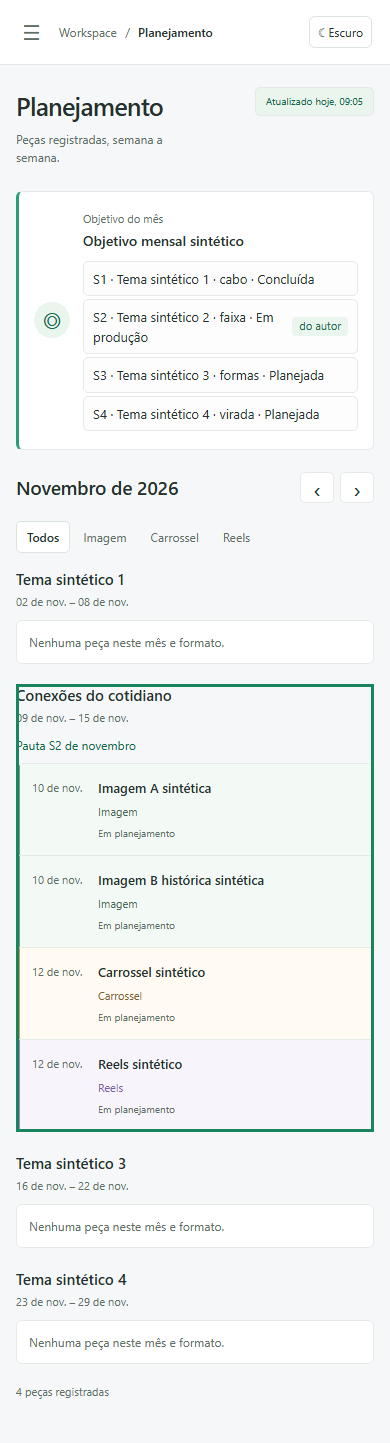
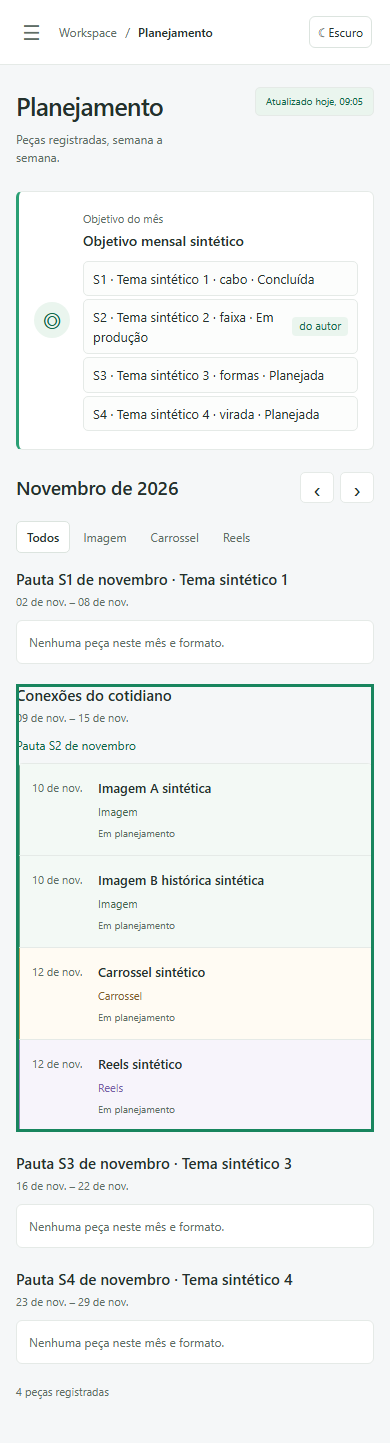
fix: distinguir pautas de semanas e esclarecer avisos de datas

diff --git a/src/web/app.js b/src/web/app.js
@@ -342,20 +342,24 @@ function pecaVisivel(p,week) {
   const cruzaMes=week.periodo.inicio.slice(0,7)<=state.mes && week.periodo.fim.slice(0,7)>=state.mes;
   return cruzaMes && p.dataCivil>=week.periodo.inicio && p.dataCivil<=week.periodo.fim;
 }
-function lista(semData=false) {
-  const groups=[];
-  const pautas=pautasDoMes(),weeks=state.view.semanas.slice();
+function semanasComPautas(semData,pautas) {
+  const weeks=state.view.semanas.slice();
   if(!semData)for(const pauta of pautas) {
-    if(!weeks.some(w=>w.periodo.inicio===pauta.inicio_semana))weeks.push({tema:pauta.tema,ids:[],periodo:{inicio:pauta.inicio_semana,fim:dataMais(pauta.inicio_semana,6)}});
+    if(!weeks.some(w=>w.periodo.inicio===pauta.inicio_semana))weeks.push({tema:pauta.tema,pautaDestino:pauta,ids:[],periodo:{inicio:pauta.inicio_semana,fim:dataMais(pauta.inicio_semana,6)}});
   }
   if(weeks.length>state.view.semanas.length)weeks.sort((a,b)=>(a.periodo.inicio??'z').localeCompare(b.periodo.inicio??'z'));
+  return weeks;
+}
+function lista(semData=false) {
+  const groups=[],pautas=pautasDoMes(),weeks=semanasComPautas(semData,pautas);
   for (const week of weeks) {
     const pecas=idsParaPecas(week.ids).filter(p=>semData?p.dataCivil===null:aceito(p) && pecaVisivel(p,week));
     const temPauta=!semData && pautas.some(p=>p.inicio_semana===week.periodo.inicio);
     if (!pecas.length && !temPauta) continue;
     const group=node('section',undefined,'agenda-week'), header=node('header');
     if(!semData)destinoSemana(group,week.periodo.inicio);
-    header.append(node('h3',week.tema || 'Tema não informado'),node('small',week.periodo.inicio?civil(week.periodo.inicio,{day:'2-digit',month:'short'})+' – '+civil(week.periodo.fim,{day:'2-digit',month:'short'}):'Período não identificado'));
+    const tema=week.tema || 'Tema não informado';
+    header.append(node('h3',week.pautaDestino?rotuloPauta(week.pautaDestino)+' · '+tema:tema),node('small',week.periodo.inicio?civil(week.periodo.inicio,{day:'2-digit',month:'short'})+' – '+civil(week.periodo.fim,{day:'2-digit',month:'short'}):'Período não identificado'));
     const rows=node('div',undefined,'agenda-rows');rows.append(...pecas.map(row));
     group.append(header);
     const origem=origemPauta(week);if(origem)group.append(origem);

diff --git a/specs/004-pautas-planejamento/validacao.md b/specs/004-pautas-planejamento/validacao.md
@@ -13,7 +13,7 @@ Solicitação de 07/10/2026: consulta de Pautas opcional e Semanas.pauta_id opci
 - Context7 conferido para Sheets e Playwright; nenhuma dependência instalada. Ausência de mapa Graphify neste checkout conferida.
 
 ## Estado
-Spec/plano/tarefas definidos. Implementação, testes e screenshots concluídos localmente; correções conferidas pela revisão independente. [PR #20](https://github.com/Browsher/crm-social/pull/20) aberto, gate estrito aprovado no primeiro head e três Minor atendidos. T012–T014 reconferidas com gate de 434 testes e doc-sync final; T015 aguarda checks/review do head atualizado. Este registro não comprova uso editorial real. Toda evidência desta entrega usa fixtures sintéticas, cliente remoto falso e TEMP; nenhuma coleta na fonte operacional.
+Spec/plano/tarefas definidos. Implementação, testes e screenshots concluídos localmente; correções conferidas pela revisão independente. [PR #20](https://github.com/Browsher/crm-social/pull/20) aberto, dois heads anteriores com gate estrito aprovado e reviews sem Critical/Important. T012–T014 reconferidas com gate de 441 testes e doc-sync final; T015 aguarda checks/review do head atualizado. Este registro não comprova uso editorial real. Toda evidência desta entrega usa fixtures sintéticas, cliente remoto falso e TEMP; nenhuma coleta na fonte operacional.
 
 ## TDD e regressões parciais
 Backend: RED inicial 6 PASS/32 FAIL pela ausência do suporte a Pautas; implementação e casos adicionais terminaram com 190 PASS/0 FAIL/0 SKIP nos arquivos pautas, coleta, projecao, snapshot e servidor (41 testes P004). A invocação também continha o padrão inexistente captura.test.cjs, ignorado pelo runner; não foi contado como teste executado. O coordenador executou separadamente `node --test tests/dados.test.cjs`: 25 PASS/0 FAIL/0 SKIP, incluindo hashes legados literais. Gate integrado ainda pendente nesta fase.
@@ -23,7 +23,7 @@ UI: RED inicial 1 PASS/8 FAIL; regressão de interface/tema/atualização 148 PA
 
 Gerador: RED por ausência de PNG; GREEN 4 PASS sem pulos (guardas de exclusão, falha do navegador e CLI real em cópia TEMP). Geração exit 0, 20 PNG, todos inspecionados pelo responsável e seis amostras pelo coordenador. [Galeria](../../docs/design/screenshots/LEIA-ME.md#004--pautas-no-planejamento). As imagens mantêm a galeria anterior e não mostram dados reais.
 
-Primeiro `node tools/quality-gate.mjs`, Node 24.19.0, Windows com Playwright existente: **427 testes PASS**, cobertura **93,8748%**, complexidade PASS/19 avisos, exit **0**, baseline preservada. Execução TAP completa confirmou 427 PASS/0 FAIL/0 SKIP. [Resumo sanitizado](../../docs/reports/004-local-gate.json). O modo é full: drop 0 é o valor desse modo, não comparação com os 96,3498% históricos. O percentual medido agora inclui o novo módulo/fixture/gerador; a UI continua fora do LCOV. Semgrep SKIP por ferramenta ausente; audit N/A sem dependências do app. Gate estrito remoto e review ainda pendentes, separados da prova Windows.
+Primeiro `node tools/quality-gate.mjs`, Node 24.19.0, Windows com Playwright existente: **427 testes PASS**, cobertura **93,8748%**, complexidade PASS/19 avisos, exit **0**, baseline preservada. Execução TAP completa confirmou 427 PASS/0 FAIL/0 SKIP. Esta é uma rodada histórica, registrada somente neste texto; o relatório JSON versionado corresponde à última rodada descrita adiante. O modo é full: drop 0 é o valor desse modo, não comparação com os 96,3498% históricos. O percentual inclui o novo módulo/fixture/gerador; a UI continua fora do LCOV. Semgrep SKIP por ferramenta ausente; audit N/A sem dependências do app. Gate estrito remoto e review ainda estavam pendentes nesta rodada.
 
 Varredura final de 36 arquivos textuais alterados/criados após a correção e o doc-sync: sem correspondência para e-mail de conta de serviço, URL privada de planilha, chave privada completa ou cópia/caminho do contrato operacional. Limite: padrões conservadores não comprovam ausência de todo segredo possível. Nenhum arquivo de output/ preexistente foi incluído.
 
@@ -32,7 +32,7 @@ Revisor separado, seguindo `.claude/agents/reviewer.md`, examinou os documentos,
 
 Teste RED: 1 FAIL; GREEN U004: 12 PASS/0 FAIL/0 SKIP. Limites inclusivos, dias fora do período e ponteiro órfão cobertos. Revisor conferiu patch/teste e encerrou sem Critical, Important pendente ou problema concreto de segurança no material recebido, condicionado ao gate após a correção. Limites: não examinou diretamente todo o diff ou os PNGs; review remoto do futuro head continua necessário. Nenhuma autorização de merge.
 
-Gate final após a correção: **428 testes PASS**, cobertura **93,8748%**, complexidade PASS/**20 avisos**, exit **0**, baseline preservada. Execução TAP completa da mesma árvore confirmou **428 PASS/0 FAIL/0 SKIP**, sem cancelados ou TODO. `origensDoDia` ficou com complexidade 13, abaixo do limiar de reprovação 21. Limitações de Semgrep/audit/LCOV/modo full permanecem as registradas acima. [Relatório final sanitizado](../../docs/reports/004-local-gate.json). Galeria regenerada nessa árvore: 20 PNG, exit 0, seis amostras visuais cobrindo ambos os temas e larguras sem alterações inesperadas.
+Rodada após a correção local: **428 testes PASS**, cobertura **93,8748%**, complexidade PASS/**20 avisos**, exit **0**, baseline preservada. Execução TAP completa da mesma árvore confirmou **428 PASS/0 FAIL/0 SKIP**, sem cancelados ou TODO. `origensDoDia` ficou com complexidade 13, abaixo do limiar de reprovação 21. Limitações de Semgrep/audit/LCOV/modo full permanecem as registradas acima. Rodada histórica preservada neste texto. Galeria regenerada nessa árvore: 20 PNG, exit 0, seis amostras visuais cobrindo ambos os temas e larguras sem alterações inesperadas.
 
 ## Documentação
 Doc-sync-onboarding concluído após estabilizar o código/gate, em 14 Markdown de onboarding/produto/arquitetura/módulos/galeria. Links locais conferidos, cercas balanceadas, índice documental atualizado e `git diff --check` sem erros. Não houve alteração em templates, skills, gate, CI ou baseline. Sem mapa Graphify existente. Documentos diferenciam implementação/teste local de integração.
@@ -52,7 +52,7 @@ Correções dos três Minor:
 Revisor local separado conferiu esses deltas e as evidências encaminhadas, sem executar comandos, e não encontrou novo Critical, Important ou problema de segurança. Gate Windows após os ajustes: **434 PASS**, cobertura **93,8708%**, complexidade PASS/20 avisos, exit 0, baseline preservada; Semgrep local SKIP e audit N/A. Execução TAP/LCOV confirmou **434 PASS/0 FAIL/0 SKIP**, sem cancelados/TODO. Galeria regenerada: 20 PNG e exit 0, amostras dos dois temas/larguras conferidas.
 
 ### Cobertura por arquivo solicitada no review
-LCOV Windows com os mesmos includes/excludes do gate; agregado idêntico ao relatório: **1.409/1.501 linhas (93,8708%)**. Resumo sanitizado e linhas não cobertas em `coverageDetails` do [relatório](../../docs/reports/004-local-gate.json); LCOV bruto com caminhos locais não é publicado.
+LCOV Windows final com os mesmos includes/excludes do gate; agregado idêntico ao relatório: **1.410/1.502 linhas (93,8748%)**. Resumo sanitizado e linhas não cobertas em `coverageDetails` do [relatório](../../docs/reports/004-local-gate.json); LCOV bruto com caminhos locais não é publicado. `sourceParent` identifica a base dos últimos ajustes e `sourceBlobs` identifica por hash Git cada um dos 12 arquivos de código/testes/estilo da entrega, conferidos novamente após executar o gate e o LCOV. Os números intermediários permanecem somente nos relatos históricos acima.
 
 | Arquivo | Linhas cobertas/medidas | Percentual |
 | --- | --- | --- |
@@ -60,8 +60,21 @@ LCOV Windows com os mesmos includes/excludes do gate; agregado idêntico ao rela
 | src/coleta.cjs | 85/85 | 100% |
 | src/triagem.cjs | 101/101 | 100% |
 | src/projecao.cjs | 308/308 | 100% |
-| src/pautas.cjs | 50/50 | 100% |
+| src/pautas.cjs | 51/51 | 100% |
 | tests/pautas-fixtures.cjs | 23/23 | 100% |
 | scripts/screenshots-pautas.cjs | 52/96 | 54,1667% |
 
 As 44 linhas não cobertas do novo gerador respondem por 44 das 92 linhas não cobertas do agregado. O CLI real foi executado e verificado em subprocesso, cuja cobertura não é incorporada à do processo pai; os testes VM medem preparação/falhas/limpeza. Os cinco módulos de backend alterados têm 100% das linhas medidas cobertas, o que não equivale a 100% dos ramos. UI permanece exercitada no navegador, fora do LCOV. Não foi refeita a medição por arquivo da main histórica, portanto o percentual agregado anterior não serve como comparação direta de ramos.
+
+### Review do commit f0c2b6b
+[Gate estrito](https://github.com/Browsher/crm-social/actions/runs/37676734525/job/112982060691) de `f0c2b6bad9880a16820b8699a51e6fdae56f7785`: tests/coverage/complexity/Semgrep PASS, 20 avisos, audit N/A, exit 0, baseline preservada. [Review desse head](https://github.com/Browsher/crm-social/pull/20#issuecomment-6045578137): sem Critical/Important, seis Minor.
+
+Tratamento:
+- Minor 1: destino visual sem Semana capturada passa a se identificar como `Pauta S1 de novembro · tema`, sem criar `pautaOrigem` ou linha na Planilha. RED 1 FAIL; GREEN Pautas/interface 116 PASS/0 FAIL/0 SKIP, incluindo 14 U004.
+- Minor 2: início inválido repetido não avisa duplicidade. Datas civis canônicas repetidas continuam contadas mesmo quando outro campo da pauta é inválido. Reutiliza `instanteUtc` de captura. RED 5 FAIL/1 PASS; GREEN Pautas/projeção/dados 153 PASS/0 FAIL/0 SKIP, incluindo 52 P004.
+- Minor 3: contrato/quickstart explicam `mes` textual `AAAA-MM` e IDs textuais opacos, sem alterar formatação na fonte.
+- Minor 4: preparação/ordenação da lista extraída para `semanasComPautas`, preservando ordem física quando não há destinos novos e sempre em Sem data.
+- Minor 5: limitação do modo full e cobertura do subprocesso ficam explícitas. Mantido o escopo do gate; não excluir o gerador nem alterar baseline para aumentar o percentual. Pendência M8 permanece documentada, com prova Windows separada.
+- Minor 6: mantidas as duas guardas locais da coluna opcional, sem divergência demonstrada. As combinações de presença/ausência são verificadas nos testes de projeção/Planilha. Extração de helper adicional fica como melhoria não bloqueante, fora desta entrega enxuta.
+
+As sugestões 5/6 não apontam falha de segurança, perda de dados ou regressão demonstrada. Revisor local separado conferiu os deltas 1–4 e a reutilização de `instanteUtc`, sem novo Critical/Important ou problema de segurança no material encaminhado. Gate Windows da árvore ajustada: **441 testes PASS**, cobertura **93,8748%**, complexidade PASS/20 avisos, exit 0, baseline preservada; execução TAP/LCOV confirmou **441 PASS/0 FAIL/0 SKIP**, sem cancelados/TODO. `lista` passou de 18 para 15 e `semanasComPautas` tem 5. Semgrep local SKIP/audit N/A permanecem. Galeria regenerada: 20 PNG, exit 0 e oito amostras de card/lista/semana em 1440/390 e claro/escuro conferidas, incluindo os novos títulos em tela pequena. Checks remotos ainda devem conferir o head enviado; evidência anterior não os substitui.

diff --git a/docs/modules/web.md b/docs/modules/web.md
@@ -65,7 +65,7 @@ O booleano `definido` aceita somente objetivo textual não vazio após trim e or
 
 As regressões em 1440/390 verificam a cor ao navegar por objetivos/ausências/duplicatas, **+1 pauta**/**+2 pautas** e ausência de `.more-topics` com até cinco itens, mesmo quando objetivo/pauta contêm `+2` literal. O teste de integração confirma card e avisos de mês: outubro único, novembro duplicado nas linhas físicas 4/6, dezembro com espaços inválido na linha 8; outra marca fica fora. Essa conferência preserva o contrato recebido da API. [Gate local dos ajustes](../reports/003-ajustes-local-gate.json) e [validação](../../specs/003-planejamento-mensal/validacao.md) distinguem o código atual das rodadas anteriores de CI.
 
-`irParaPauta` renderiza o mês da pauta e dá foco/rolagem ao destino `data-inicio-semana` correspondente no calendário ou na lista selecionada. `destinoSemana` usa `tabIndex=-1`, `role=group` e rótulo de semana; no calendário aplica-se apenas às segundas-feiras. Na lista, uma pauta sem semana capturada cria apenas um destino visual com tema/período e nenhuma peça; não cria registro operacional ou origem inferida. Ação funciona com mouse, Enter e Espaço e não depende de peças ou formato selecionado.
+`irParaPauta` renderiza o mês da pauta e dá foco/rolagem ao destino `data-inicio-semana` correspondente no calendário ou na lista selecionada. `destinoSemana` usa `tabIndex=-1`, `role=group` e rótulo de semana; no calendário aplica-se apenas às segundas-feiras. Na lista, uma pauta sem semana capturada cria apenas um destino visual com cabeçalho **Pauta S1 de novembro · tema**, período e nenhuma peça. `pautaDestino` existe somente nesse objeto local e fornece o rótulo; não cria registro operacional nem preenche `pautaOrigem`. Origem continua exigindo o vínculo confirmado pela API. Ação funciona com mouse, Enter e Espaço e não depende de peças ou formato selecionado.
 
 `origemPauta` mostra **Pauta S2 de novembro** somente para `pautaOrigem` confirmada pela API. Calendário/lista usam a origem da semana; a gaveta reúne uma vez cada origem das semanas representadas pelas peças. Em dia vazio, usa as origens já confirmadas das semanas capturadas cujo período abrange a data. Esse recorte por dia não associa pauta por data: o vínculo continua resolvido exclusivamente pelo backend por ID/marca/início.
 
@@ -88,7 +88,7 @@ Valor desconhecido permanece exatamente o original, sem substituir sublinhados, 
 
 Tema aparece no início da semana. Para múltiplas peças, apresenta o primeiro cartão de formato selecionado e **+N no dia**. Clicar cartão, dia ou contador abre todas as peças desse dia, sem aplicar o filtro de formato ao grupo. A grade começa na segunda-feira da primeira semana que contém o dia 1 e termina no domingo da última semana que contém dia do mês; pode ter 28, 35 ou 42 células conforme o calendário.
 
-A lista agrupa pelo tema/período da semana de origem e conserva a ordem física recebida quando não acrescenta destinos visuais de pautas. Somente ao acrescentar esses destinos sem semana capturada ordena o conjunto por início civil. Capturas antigas e a lista Sem data preservam sua ordem anterior. `pecaVisivel` considera a data civil da peça no mês escolhido; conserva também peças dentro do período de uma semana que cruza aquele mês. Peça remarcada para outro mês aparece no novo mês sem mudar sua semana registrada. Sem data permanece acessível independentemente do mês; filtro de formato continua valendo na lista comum.
+`semanasComPautas` prepara o conjunto usado por `lista`, acrescentando destinos locais de pautas somente quando necessário. A lista agrupa pelo tema/período da semana de origem e conserva a ordem física recebida quando não acrescenta esses destinos. Somente ao acrescentar esses destinos sem semana capturada ordena o conjunto por início civil. Capturas antigas e a lista Sem data preservam sua ordem anterior. `pecaVisivel` considera a data civil da peça no mês escolhido; conserva também peças dentro do período de uma semana que cruza aquele mês. Peça remarcada para outro mês aparece no novo mês sem mudar sua semana registrada. Sem data permanece acessível independentemente do mês; filtro de formato continua valendo na lista comum.
 
 **N sem data** conta globalmente a captura NTV e abre lista dedicada por semana, sem filtro de mês/formato; o link fica oculto quando N é zero. O total **peças registradas** também é global, não a quantidade visível naquele filtro.
 

diff --git a/AGENTS.md b/AGENTS.md
@@ -8,7 +8,7 @@ Este repositório é independente desde 07/10/2026; o AGENTS.md do antigo worksp
 
 Feature ativa: [004 — Pautas no Planejamento](specs/004-pautas-planejamento/spec.md), autorizada em 07/10/2026 com [15 tarefas](specs/004-pautas-planejamento/tasks.md). Nesta entrega, o CRM apenas consulta Pautas opcional e Semanas.pauta_id opcional; não incorpora o contrato externo nem executa os agentes. Revisões/biblioteca passam ao backlog 005/006. [PR #20](https://github.com/Browsher/crm-social/pull/20) aberto para avaliação do autor, com screenshots sintéticos e sem merge ou integração. Resultados de gate/review por head na validação da 004. Commits usam `204295625+Browsher@users.noreply.github.com`, sem coautoria. Tema (#18) e iniciador (#19) já integrados; os textos históricos abaixo preservam as provas de cada rodada.
 
-004 implementada e testada localmente: Pautas/Meses opcionais independentes; pauta válida e unívoca permite navegação semanal, vínculo confirmado exige ID exato/marca/início, e Planilha preserva todas as linhas NTV triadas. Gate Windows Node 24.19.0: 434 PASS, cobertura 93,8708%, complexidade PASS/20 avisos, exit 0 e baseline preservada; drop 0 no modo full não é comparação histórica. Semgrep SKIP por ferramenta ausente/audit N/A; entrega no [PR #20](https://github.com/Browsher/crm-social/pull/20), aberto para avaliação do autor, sem merge ou integração. Resultados por head somente na validação. [Validação](specs/004-pautas-planejamento/validacao.md), [relatório sanitizado](docs/reports/004-local-gate.json) e [20 screenshots sintéticos](docs/design/screenshots/LEIA-ME.md#004--pautas-no-planejamento). UI continua fora do LCOV; prova sintética não demonstra operação real.
+004 implementada e testada localmente: Pautas/Meses opcionais independentes; pauta válida e unívoca permite navegação semanal, vínculo confirmado exige ID exato/marca/início, e Planilha preserva todas as linhas NTV triadas. Gate Windows Node 24.19.0: 441 PASS, cobertura 93,8748%, complexidade PASS/20 avisos, exit 0 e baseline preservada; drop 0 no modo full não é comparação histórica. Semgrep SKIP por ferramenta ausente/audit N/A; entrega no [PR #20](https://github.com/Browsher/crm-social/pull/20), aberto para avaliação do autor, sem merge ou integração. Resultados por head somente na validação. [Validação](specs/004-pautas-planejamento/validacao.md), [relatório sanitizado](docs/reports/004-local-gate.json) e [20 screenshots sintéticos](docs/design/screenshots/LEIA-ME.md#004--pautas-no-planejamento). UI continua fora do LCOV; prova sintética não demonstra operação real.
 
 A [003](specs/003-planejamento-mensal/spec.md) está concluída, 15/15 tarefas: somente consulta da aba opcional Meses, sem fluxo de agentes/repasse/meta semanal no CRM. [Plano](specs/003-planejamento-mensal/plan.md), [tarefas](specs/003-planejamento-mensal/tasks.md) e [validação](specs/003-planejamento-mensal/validacao.md) registram implementação e limites. Código integrado pelo [PR #15](https://github.com/Browsher/crm-social/pull/15); T021 da 002 integrada pelo [PR #16](https://github.com/Browsher/crm-social/pull/16). T002 e T015 concluídas com aba criada pelo autor e uma linha fictícia marcada como teste. A orientação de uso real antes de nova feature pertence ao fechamento da 003; a 004 foi autorizada em 07/10. Os checks/review da 004 precisam validar seu próprio head. O [contrato da 003](specs/003-planejamento-mensal/contracts/meses.md) estende v1 sem migrar capturas antigas.
 

diff --git a/docs/modules/pautas.md b/docs/modules/pautas.md
@@ -2,9 +2,9 @@
 
 Como um índice entre o plano do mês e a semana, `src/pautas.cjs` confere pautas capturadas e identifica a origem semanal sem comandar a operação. Contrato canônico na [004](../../specs/004-pautas-planejamento/contracts/pautas.md).
 
-Implementado e testado localmente; [validação e limites](../../specs/004-pautas-planejamento/validacao.md). [PR #20](https://github.com/Browsher/crm-social/pull/20) aberto para avaliação do autor, sem merge ou integração; resultados por head na validação. Importa somente `CAMPOS_PAUTAS` de [captura](captura.md) e é chamado por [projeção](projecao.md), depois de `selecionarNtv` e antes de montar Planilha/Planejamento.
+Implementado e testado localmente; [validação e limites](../../specs/004-pautas-planejamento/validacao.md). [PR #20](https://github.com/Browsher/crm-social/pull/20) aberto para avaliação do autor, sem merge ou integração; resultados por head na validação. Importa `CAMPOS_PAUTAS` e `instanteUtc` de [captura](captura.md) e é chamado por [projeção](projecao.md), depois de `selecionarNtv` e antes de montar Planilha/Planejamento.
 
-`projetarPautas(ntv, avisos, origens)` recebe somente registros já selecionados e triados. Confere identidade textual, mês, ordinal inteiro de 1 a 4 e segunda-feira correspondente dentro do mês. Ano zero, datas impossíveis, quinta semana e calendário incoerente não habilitam navegação. Confere duplicatas de ID textual não vazio e de marca/início em todo o conjunto NTV, inclusive linhas inválidas em outros campos, para não escolher a primeira linha silenciosamente. ID inválido repetido recebe apenas o aviso de identidade inválida, sem aviso adicional de identidade repetida. IDs textuais opacos permanecem intactos, comparados exatamente como registrados.
+`projetarPautas(ntv, avisos, origens)` recebe somente registros já selecionados e triados. Confere identidade textual, mês, ordinal inteiro de 1 a 4 e segunda-feira correspondente dentro do mês. Ano zero, datas impossíveis, quinta semana e calendário incoerente não habilitam navegação. Confere duplicatas de ID textual não vazio e de marca/início civil válido em todo o conjunto NTV, inclusive linhas inválidas em outros campos, para não escolher a primeira linha silenciosamente. O aviso de início repetido exige texto de data civil válido, conferido com `instanteUtc`; início vazio, não textual ou impossível recebe seu aviso de calendário, sem aviso adicional de duplicidade. ID inválido repetido recebe apenas o aviso de identidade inválida, sem aviso adicional de identidade repetida. IDs textuais opacos permanecem intactos, comparados exatamente como registrados.
 
 Campos textuais e vocabulários conhecidos recebem avisos semânticos sem eliminar identidade/calendário válidos. Valores desconhecidos continuam dados da fonte; status não muda a produção nem significa publicação. Avisos usam aba, linha física e campo, com motivos fixos sem reproduzir valores.
 

diff --git a/specs/004-pautas-planejamento/contracts/pautas.md b/specs/004-pautas-planejamento/contracts/pautas.md
@@ -4,12 +4,14 @@ Extensão aditiva de schemaVersion 1, sem reserializar capturas antigas.
 ## Captura
 Seis abas continuam obrigatórias. Meses/Pautas são opcionais independentes; quando presentes exigem tabela completa, metadados antes/depois coerentes, dois hashes iguais incluindo conteúdo ordenado por nome. Pautas exige 12 cabeçalhos do modelo. Semanas.pauta_id permanece fora dos mínimos obrigatórios. Coleta normaliza somente semana textual inteira canônica segura e data serial declarada; IDs/mes não são convertidos. Arquivo importado mantém tipagem original; inconsistências semânticas viram aviso.
 
+`mes` deve chegar como texto `AAAA-MM`; `pauta_id`, como texto opaco. Na fonte, essas colunas devem ser mantidas como texto simples, inclusive `Semanas.pauta_id`. Número ou data serial em `mes` não é convertido silenciosamente: gera aviso e impede usar aquela pauta no calendário. O CRM não altera a formatação da fonte.
+
 ## Projeção
 `pautas` é propriedade opcional da raiz, presente quando capturada, com linhas NTV triadas de identidade/calendário unívocos. `planilha` inclui Pautas com todos os 12 mínimos e linhas triadas, inclusive inválidas. Campos extras/outras marcas não saem. Avisos contêm aba, linha física, campo e motivo fixo.
 Com coluna capturada, cada semana inclui `pauta_id` e `pautaOrigem` (cópia da pauta confirmada ou null); sem coluna, ambas propriedades ausentes. Vínculo confirma só ID exato + mesma marca/início. Ausente/duplicado/incoerente avisa sem inferência.
 
 ## Interface
-Card preserva objetivo Meses. Havendo pautas válidas do mês, mostra linhas semana/tema/modelo/status e selo só origem=autor. Sem pautas desse mês, fallback da 003 completo. Ativação leva a inicio_semana, com foco e destino mesmo sem peças. Semana calendário/lista e gaveta mostram `Pauta S2 de novembro`; gaveta reúne origens únicas das semanas das peças do dia. Status legível não significa publicação. Sem HTML executável ou edição.
+Card preserva objetivo Meses. Havendo pautas válidas do mês, mostra linhas semana/tema/modelo/status e selo só origem=autor. Sem pautas desse mês, fallback da 003 completo. Ativação leva a inicio_semana, com foco e destino mesmo sem peças. Destino de pauta sem semana capturada é identificado como pauta, sem criar vínculo ou registro semanal. Semana calendário/lista e gaveta mostram `Pauta S2 de novembro`; gaveta reúne origens únicas das semanas das peças do dia ou, no dia vazio, das semanas capturadas que abrangem a data e já têm origem confirmada. Status legível não significa publicação. Sem HTML executável ou edição.
 
 ## Segurança e compatibilidade
 Unicidade e índice são avaliados no conjunto NTV, depois da seleção da marca. Uma pauta apenas de outra marca não resolve vínculo NTV; registros de outra marca não criam avisos ou conteúdo na consulta. IDs são comparados exatamente, sem normalização ou preenchimento.

diff --git a/docs/architecture.md b/docs/architecture.md
@@ -39,7 +39,7 @@ flowchart LR
   Server --> Quadro["src/quadro-config.cjs"]
   Projecao --> Captura
   Projecao --> Pautas["src/pautas.cjs: identidade, calendário e origem"]
-  Pautas --> Captura
+  Pautas -->|CAMPOS_PAUTAS e instanteUtc| Captura
   Projecao --> Triagem
   Triagem -->|CAMPOS, opcionais e linhas físicas| Captura
   Projecao --> Quadro
@@ -237,7 +237,7 @@ como texto segundo o contrato. Células não criam links ou navegação automát
 
 ## Pautas: identidade, calendário e origem
 
-`src/pautas.cjs` importa somente `CAMPOS_PAUTAS` de captura e é chamado pela projeção com linhas NTV já triadas. A raiz `pautas` existe somente quando a aba foi capturada, com cópias de pautas cuja identidade/calendário são válidos e unívocos. Duplicatas de ID textual não vazio ou marca/início em qualquer linha NTV invalidam os destinos envolvidos; ID inválido repetido recebe apenas o aviso de identidade inválida, sem aviso adicional de identidade repetida; outras marcas não participam desse índice nem criam avisos. Mês, ordinal inteiro 1–4 e segunda-feira correspondente são conferidos sem inferir uma quinta pauta. Texto/modelo/origem/status desconhecidos geram aviso e permanecem dados da fonte; não mudam a produção.
+`src/pautas.cjs` importa `CAMPOS_PAUTAS` e `instanteUtc` de captura e é chamado pela projeção com linhas NTV já triadas. A raiz `pautas` existe somente quando a aba foi capturada, com cópias de pautas cuja identidade/calendário são válidos e unívocos. Duplicatas de ID textual não vazio ou marca/início civil válido em qualquer linha NTV invalidam os destinos envolvidos, inclusive quando a linha é inválida em outro campo; ID inválido repetido recebe apenas o aviso de identidade inválida, sem aviso adicional de identidade repetida, e início vazio/não textual/impossível não recebe aviso adicional de duplicidade; outras marcas não participam desse índice nem criam avisos. Mês, ordinal inteiro 1–4 e segunda-feira correspondente são conferidos sem inferir uma quinta pauta. Texto/modelo/origem/status desconhecidos geram aviso e permanecem dados da fonte; não mudam a produção.
 
 Semanas recebe `pauta_id` e `pautaOrigem` somente quando o cabeçalho opcional foi capturado. A origem exige ID exato, mesma marca e mesmo início, sem dedução por data/tema/ordem; vazio não avisa e preenchido não resolvido fica null com aviso localizado. Planilha conserva todas as linhas NTV triadas de Pautas, inclusive inválidas/duplicadas. Os dois opcionais são independentes e não alteram bytes/hashes de capturas históricas. [Contrato da 004](../specs/004-pautas-planejamento/contracts/pautas.md).
 

diff --git a/README.md b/README.md
@@ -12,7 +12,7 @@ US1–US5, iniciador e cenário sintético de escala estão verificados localmen
 
 ## Estado da entrega
 
-**004 implementada e testada localmente:** [Pautas no Planejamento](specs/004-pautas-planejamento/spec.md), consulta opcional de pautas mensais, navegação semanal e origem na semana/gaveta. Escopo autorizado em 07/10/2026, com [15 tarefas](specs/004-pautas-planejamento/tasks.md); [PR #20](https://github.com/Browsher/crm-social/pull/20) aberto para avaliação do autor, sem merge ou integração. Resultados de gate/review por head ficam na validação da 004. Gate Windows: **434 PASS**, cobertura **93,8708%**, complexidade PASS/20 avisos, exit 0 e baseline preservada. O drop 0 vem do modo full, sem comparação com a cobertura histórica; Semgrep SKIP por ferramenta ausente e audit N/A. [Evidência e limites](specs/004-pautas-planejamento/validacao.md), [relatório sanitizado](docs/reports/004-local-gate.json) e [20 screenshots sintéticos](docs/design/screenshots/LEIA-ME.md#004--pautas-no-planejamento). Tema claro/escuro (#18) e reabertura pelo iniciador (#19) já estão integrados; provas anteriores permanecem nas respectivas seções.
+**004 implementada e testada localmente:** [Pautas no Planejamento](specs/004-pautas-planejamento/spec.md), consulta opcional de pautas mensais, navegação semanal e origem na semana/gaveta. Escopo autorizado em 07/10/2026, com [15 tarefas](specs/004-pautas-planejamento/tasks.md); [PR #20](https://github.com/Browsher/crm-social/pull/20) aberto para avaliação do autor, sem merge ou integração. Resultados de gate/review por head ficam na validação da 004. Gate Windows: **441 PASS**, cobertura **93,8748%**, complexidade PASS/20 avisos, exit 0 e baseline preservada. O drop 0 vem do modo full, sem comparação com a cobertura histórica; Semgrep SKIP por ferramenta ausente e audit N/A. [Evidência e limites](specs/004-pautas-planejamento/validacao.md), [relatório sanitizado](docs/reports/004-local-gate.json) e [20 screenshots sintéticos](docs/design/screenshots/LEIA-ME.md#004--pautas-no-planejamento). Tema claro/escuro (#18) e reabertura pelo iniciador (#19) já estão integrados; provas anteriores permanecem nas respectivas seções.
 
 - **Planejado:** revisões e biblioteca em 005/006 no [roadmap](ROADMAP.md); Equipe/Workflow somente v2 ilustrativo.
 - **Implementado:** 001, leitura direta da 002, consulta opcional de Meses da 003 e Pautas da 004; JWT/fetch nativos, seis abas obrigatórias tipadas e POST local, com Meses/Pautas incluídas independentemente quando existem; importação manual preservada.

diff --git a/docs/design/telas.md b/docs/design/telas.md
@@ -139,7 +139,7 @@ O [LEIA-ME do mockup](mockups/LEIA-ME.md) registra a sanitização e os limites 
 Como um índice do mês para a semana, a 004 aproxima objetivo e execução registrada sem criar um fluxo editorial. Implementada e testada localmente, com [spec](../../specs/004-pautas-planejamento/spec.md), [contrato](../../specs/004-pautas-planejamento/contracts/pautas.md) e [validação](../../specs/004-pautas-planejamento/validacao.md); [PR #20](https://github.com/Browsher/crm-social/pull/20) aberto para avaliação do autor, sem merge ou integração; resultados por head na validação citada.
 
 - **Card do mês:** conserva o objetivo de Meses; pautas estruturadas válidas aparecem em ordem semanal como `S1 · tema · modelo · status`, com selo **do autor** quando registrado. Sem Meses, objetivo **Ainda não definido**; mês sem pautas válidas preserva todo o card textual da 003, inclusive ausências/duplicatas e +N pautas.
-- **Navegação:** cada pauta é um botão acionável por mouse/teclado. Foco e rolagem vão para sua segunda-feira no calendário ou destino semanal da lista, mesmo sem peças. Criar um destino visual não cria semana operacional nem origem inferida.
+- **Navegação:** cada pauta é um botão acionável por mouse/teclado. Foco e rolagem vão para sua segunda-feira no calendário ou destino semanal da lista, mesmo sem peças. Quando a semana não está capturada, o destino visual mostra **Pauta S1 de novembro · tema**, sem criar semana operacional ou origem inferida.
 - **Origem:** calendário/lista e gaveta mostram **Pauta S2 de novembro** apenas para vínculo confirmado pelo backend por ID exato, marca e início. Na gaveta com peças, reúne origens das respectivas semanas; em dia vazio, reúne as origens já confirmadas das semanas capturadas cujo período abrange a data. Cada origem aparece uma vez.
 - **Planilha:** Pautas opcional vem após Meses quando presente, antes de Histórico, com seus doze mínimos, contagem NTV, teclado e rolagem própria. Semanas.pauta_id aparece somente quando capturado. Linhas inválidas/duplicadas permanecem conferíveis, com avisos por linha física, sem destino inventado.
 - **Apresentação:** modelo/origem/status desconhecidos continuam texto com aviso; status da pauta não confirma publicação. Claro/escuro e 1440/390 mantêm foco e contraste, sem corte horizontal da página. [20 imagens sintéticas](screenshots/LEIA-ME.md#004--pautas-no-planejamento) registram cinco cenários nos dois temas/larguras; não comprovam operação real.

diff --git a/ROADMAP.md b/ROADMAP.md
@@ -56,7 +56,7 @@ Registro detalhado: `specs/001-consulta-local-producao/spec.md`.
 
 **Resultado implementado:** card conserva o objetivo de Meses e mostra pautas válidas do mês, uma linha por semana com tema/modelo/status e selo do autor; cada linha leva à segunda-feira com foco, mesmo sem peças. Calendário/lista e gaveta identificam a pauta confirmada da semana. Planilha apresenta Pautas opcional com todas as linhas NTV triadas e Semanas.pauta_id somente quando capturado. Pautas independe de Meses; mês sem pautas válidas mantém o card completo da 003.
 
-**Verificação local:** 46 testes novos de backend, 13 de interface e quatro do gerador; gate Windows Node 24.19.0 com **434 PASS**, cobertura **93,8708%**, complexidade PASS/20 avisos, exit 0 e baseline preservada. Drop 0 é o valor do modo full, sem comparação histórica; Semgrep SKIP por ausência e audit N/A. [Relatório sanitizado](docs/reports/004-local-gate.json), [20 imagens sintéticas](docs/design/screenshots/LEIA-ME.md#004--pautas-no-planejamento) e [validação/limites](specs/004-pautas-planejamento/validacao.md). Prova local não substitui CI/review do novo head nem demonstra uso editorial real.
+**Verificação local:** 52 testes novos de backend, 14 de interface e quatro do gerador; gate Windows Node 24.19.0 com **441 PASS**, cobertura **93,8748%**, complexidade PASS/20 avisos, exit 0 e baseline preservada. Drop 0 é o valor do modo full, sem comparação histórica; Semgrep SKIP por ausência e audit N/A. [Relatório sanitizado](docs/reports/004-local-gate.json), [20 imagens sintéticas](docs/design/screenshots/LEIA-ME.md#004--pautas-no-planejamento) e [validação/limites](specs/004-pautas-planejamento/validacao.md). Prova local não substitui CI/review do novo head nem demonstra uso editorial real.
 
 **Fronteiras:** consulta somente leitura, sem novos fluxos editoriais. Ausência da aba/coluna preserva capturas e comportamento anteriores. Dados incoerentes ou vínculos ambíguos geram avisos, sem associação inventada. Só fixtures sintéticas; um PR com gate/review e screenshots nos dois temas, sem merge nesta entrega.
 

diff --git a/docs/design/screenshots/LEIA-ME.md b/docs/design/screenshots/LEIA-ME.md
@@ -244,4 +244,4 @@ Reprodução com Node/Playwright existentes configurados, na raiz do repositóri
 & $env:CRM_NODE_PATH scripts/screenshots-pautas.cjs
 ```
 
-O [gerador](../../../scripts/screenshots-pautas.cjs) importa a [fixture de pautas](../../../tests/pautas-fixtures.cjs) e os helpers sintéticos existentes; substitui somente os 20 `pautas-*.png` da galeria. Bloqueia requisições externas, confere erros do navegador e fecha sua instância; a limpeza exige TEMP e prefixo próprios antes de remover a pasta criada. [Quatro testes do script real](../../../tests/screenshots-pautas.test.cjs) cobrem as guardas, falha do navegador e CLI em cópia TEMP. Galeria regenerada após as correções do review, sem mudança visual; gate Windows da árvore final **434 PASS**. [PR #20](https://github.com/Browsher/crm-social/pull/20) aberto para avaliação do autor, sem merge ou integração; resultados de gate/review por head na [validação da 004](../../../specs/004-pautas-planejamento/validacao.md); a prova visual é distinta dos testes de comportamento e da integração.
+O [gerador](../../../scripts/screenshots-pautas.cjs) importa a [fixture de pautas](../../../tests/pautas-fixtures.cjs) e os helpers sintéticos existentes; substitui somente os 20 `pautas-*.png` da galeria. Bloqueia requisições externas, confere erros do navegador e fecha sua instância; a limpeza exige TEMP e prefixo próprios antes de remover a pasta criada. [Quatro testes do script real](../../../tests/screenshots-pautas.test.cjs) cobrem as guardas, falha do navegador e CLI em cópia TEMP. Galeria regenerada após as correções do review, sem mudança visual; gate Windows da árvore final **441 PASS**. [PR #20](https://github.com/Browsher/crm-social/pull/20) aberto para avaliação do autor, sem merge ou integração; resultados de gate/review por head na [validação da 004](../../../specs/004-pautas-planejamento/validacao.md); a prova visual é distinta dos testes de comportamento e da integração.

diff --git a/docs/index.md b/docs/index.md
@@ -206,7 +206,7 @@ Regras de escrita: analogia e visão leiga primeiro, depois detalhe técnico; ta
 
 ## Feature 004 — Pautas no Planejamento
 
-Implementada/testada localmente, com **434 PASS** no gate Windows, cobertura **93,8708%**, complexidade PASS/20 avisos, exit 0 e baseline preservada. Drop 0 é do modo full, sem comparação histórica; Semgrep SKIP por ferramenta ausente/audit N/A. [PR #20](https://github.com/Browsher/crm-social/pull/20) aberto para avaliação do autor, sem merge ou integração; resultados de gate/review por head na [validação da 004](../specs/004-pautas-planejamento/validacao.md); prova local e screenshots não demonstram operação editorial real.
+Implementada/testada localmente, com **441 PASS** no gate Windows, cobertura **93,8748%**, complexidade PASS/20 avisos, exit 0 e baseline preservada. Drop 0 é do modo full, sem comparação histórica; Semgrep SKIP por ferramenta ausente/audit N/A. [PR #20](https://github.com/Browsher/crm-social/pull/20) aberto para avaliação do autor, sem merge ou integração; resultados de gate/review por head na [validação da 004](../specs/004-pautas-planejamento/validacao.md); prova local e screenshots não demonstram operação editorial real.
 
 - [Spec](../specs/004-pautas-planejamento/spec.md), [plano](../specs/004-pautas-planejamento/plan.md), [tarefas](../specs/004-pautas-planejamento/tasks.md) e [checklist](../specs/004-pautas-planejamento/checklists/requirements.md).
 - [Pesquisa](../specs/004-pautas-planejamento/research.md), [modelo](../specs/004-pautas-planejamento/data-model.md), [contrato](../specs/004-pautas-planejamento/contracts/pautas.md) e [quickstart](../specs/004-pautas-planejamento/quickstart.md).
